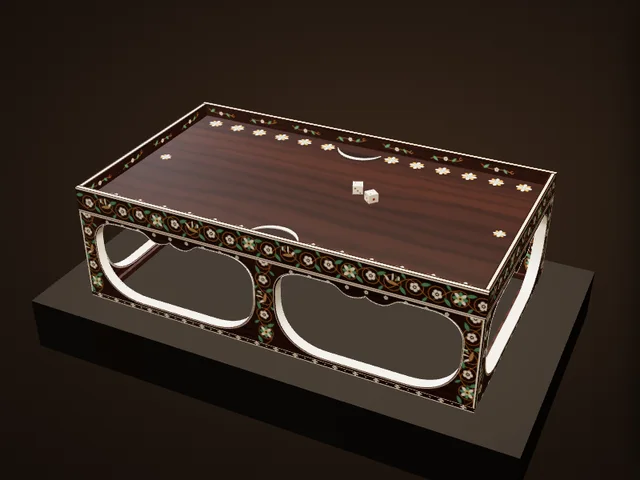
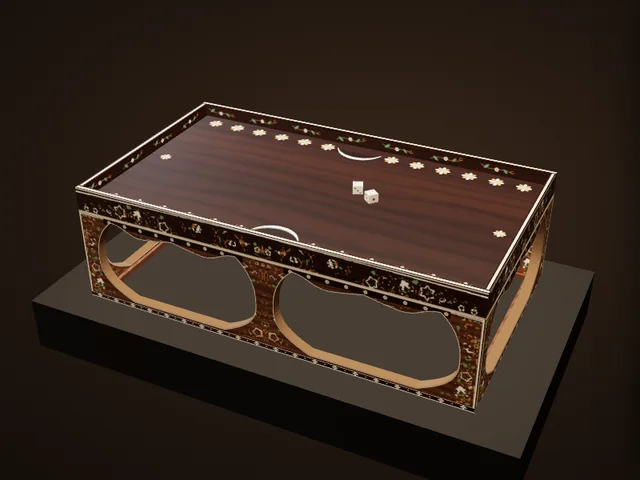
博物館：双六局の床脚の形・色と木画を正倉院の正面写真に合わせ直し
Claude-Session: https://claude.ai/code/session_01EiWRAZTxRF5M5nk5vdR2jJ

Changed region(s): [[0.125, 0.375, 0.875, 0.8438]]

diff --git a/atlas/museum/ex/sugoroku.js b/atlas/museum/ex/sugoroku.js
@@ -11,12 +11,16 @@
    included), base 12.5, rail .8. Two ivory dice (双六頭, kept apart as North 17) are set on the board for reference. */
 (function () {
   'use strict';
+  // the marquetry's layout, taken off the Shōsōin's frontal photographs of a long and a short side (CO0000011755 / 11757): red = the thin
+  // stems, green = the green-dyed leaves, blue = ivory. Rows: long band (2048×128), short band (1168×128), long stand (2048×512), short stand (1168×512).
+  const HERE = (document.currentScript && document.currentScript.src) || location.href; let INL = null;
   (window.AtlasEx = window.AtlasEx || {}).sugoroku = {
+    ready: () => new Promise(res => { const im = new Image(); im.onload = () => { INL = im; res(); }; im.onerror = () => res(); im.src = new URL('../../../images/atlas/ex/sugoroku-inlay.webp', HERE).href; setTimeout(res, 8000); }),
     build(TT, X, K) {
       const G = new TT.Group();
       const L = 54.3, W = 31.0, H = 16.7, RAIL = .8, BASE = 13.3, LIN = .9, EDGE = H - BASE, RIM = 1.9, RT = .7;   // (RIM: the wall round the field stands upright, about 1.9 high — the overall photograph)   // LIN: the strip of rosettes at the top of the base
       const shT = K.tex(1024, 1024, (g, w, h) => K.grain(g, w, h, { a: '#3e2016', b: '#1f0e09', seed: 37, sx: .5, sy: 9, warp: .45, pores: .004 }));
-      const baseT = K.tex(1024, 1024, (g, w, h) => K.grain(g, w, h, { a: '#44241a', b: '#25120c', seed: 41, sx: .5, sy: 12, warp: .3, pores: .004 }));
+      const baseT = K.tex(1024, 1024, (g, w, h) => K.grain(g, w, h, { a: '#70452a', b: '#4c2c1a', seed: 41, sx: .5, sy: 12, warp: .3, pores: .004 }));
       const shR = K.tex(256, 256, (g, w, h) => K.grain(g, w, h, { a: '#7a7a7a', b: '#4e4e4e', seed: 38, sy: 14 }), { data: true });
       const shitan = K.mat({ map: shT, roughnessMap: shR, color: '#ffffff', roughness: .5, clearcoat: .35, clearcoatRoughness: .35 });
       const inner = K.mat({ map: baseT, color: '#ffffff', roughness: .55, clearcoat: .2, clearcoatRoughness: .4 });
@@ -53,6 +57,9 @@
         }
         if (opt.edge) { g.fillStyle = C.iv; g.fillRect(0, 0, w, s * .18); g.fillRect(0, h - s * .18, w, s * .18); }
       };
+      let inlC = null; if (INL) { inlC = document.createElement('canvas'); inlC.width = INL.width; inlC.height = INL.height; const q = inlC.getContext('2d'); q.drawImage(INL, 0, 0); const im = q.getImageData(0, 0, inlC.width, inlC.height), d = im.data;
+        for (let i = 0; i < d.length; i += 4) { const st = d[i] / 255, gn = d[i + 1] / 255, iv = d[i + 2] / 255; let c = [201, 138, 60]; if (gn > st && gn > iv) c = [118, 146, 88]; else if (iv >= st) c = [236, 226, 204]; d[i] = c[0]; d[i + 1] = c[1]; d[i + 2] = c[2]; } q.putImageData(im, 0, 0); }
+      const inlay = (g, long, stand, x, y, w2, h2) => { const sw = long ? 2048 : 1168, sy = stand ? (long ? 256 : 768) : (long ? 0 : 128), sh = stand ? 512 : 128; g.save(); g.shadowColor = 'rgba(14,6,3,.8)'; g.shadowBlur = 1.5; g.drawImage(inlC, 0, sy, sw, sh, x, y, w2, h2); g.restore(); };
       const mk = (t, base) => K.mat({ map: t, color: '#ffffff', roughness: .48, clearcoat: .3, clearcoatRoughness: .35 });
       /* ---------- the face ---------- */
       const IL = L - RT * 2, IW = W - RT * 2, ROW = 2.0, P0 = 4.9, PS = 3.75;   // the row of points: its distance from the rim, the first point's distance from the centre, the pitch
@@ -76,7 +83,7 @@
       const add = (geo, m, x, y, z) => { const o = new TT.Mesh(geo, m); o.position.set(x, y, z); o.castShadow = o.receiveShadow = true; G.add(o); return o; };
 
       /* ---------- the board's edge (the slab with its rim, one band of marquetry outside) ---------- */
-      const edgeTex = (len, seed) => { const s = 2048 / len; return K.tex(2048, Math.round(EDGE * s), (g, w, h) => scroll(g, w, h, s, seed, shT, { edge: true, per: 5.2 })); };
+      const edgeTex = (len, seed) => { const s = 2048 / len; return K.tex(2048, Math.round(EDGE * s), (g, w, h) => { if (!inlC) return scroll(g, w, h, s, seed, shT, { edge: true, per: 5.2 }); g.drawImage(shT.image, 0, 0, w, h); inlay(g, len > 40, false, 0, 0, w, h); g.fillStyle = C.iv; g.fillRect(0, 0, w, s * .14); g.fillRect(0, h - s * .14, w, s * .14); }); };
       const eL = mk(edgeTex(L, 1)), eW = mk(edgeTex(W, 2));
       const SL = EDGE - RIM;   // the slab; the face is at BASE + SL
       // the half-moons: a raised ivory arc in the middle of each long side, its horns toward the rim, the hollow facing the players' edge
@@ -108,25 +115,25 @@
       const opening = (x0, x1) => { const p = new TT.Path(), top = OT, b0 = .35;
         // (the Shōsōin's detail photograph of a post: it stands like an hourglass — waisted a little above the middle, sweeping out in a
         // long curve to the foot and in a shorter one under the top rail; the opening's top is flat)
-        const fx = 6.6, fy = top * .56, tx = 4.0, ty = top * .32, bow = 0;
-        p.moveTo(x0 + fx, b0); p.lineTo(x1 - fx, b0); p.bezierCurveTo(x1 - fx * .35, b0, x1 + bow, fy * .45, x1 + bow, fy);
-        p.lineTo(x1 + bow, top - ty); p.bezierCurveTo(x1 + bow, top - ty * .4, x1 - tx * .4, top - .3, x1 - tx, top - .3);
-        { const cx = (x0 + x1) / 2, t0 = top - .3;   // the top's hanging bracket: two ogees meeting in a small notch
-          p.lineTo(cx + 4.6, t0); p.bezierCurveTo(cx + 3.4, t0, cx + 3.2, t0 - 1.15, cx + 1.9, t0 - 1.15); p.quadraticCurveTo(cx + .7, t0 - 1.15, cx, t0 - .55);
-          p.quadraticCurveTo(cx - .7, t0 - 1.15, cx - 1.9, t0 - 1.15); p.bezierCurveTo(cx - 3.2, t0 - 1.15, cx - 3.4, t0, cx - 4.6, t0); }
-        p.lineTo(x0 + tx, top - .3); p.bezierCurveTo(x0 + tx * .4, top - .3, x0 - bow, top - ty * .4, x0 - bow, top - ty);
-        p.lineTo(x0 - bow, fy); p.bezierCurveTo(x0 - bow, fy * .45, x0 + fx * .35, b0, x0 + fx, b0); return p; };
+        const fx = 4.8, fy = top * .46, tx = 2.6, ty = top * .52, bow = 0;   // (measured on the frontal photographs: legs 2 wide at the waist, 6.5 at the foot, 3.7 under the rail)
+        p.moveTo(x0 + fx, b0); p.lineTo(x1 - fx, b0); p.bezierCurveTo(x1 - fx * .45, b0 + fy * .22, x1 + bow, fy * .5, x1 + bow, fy);
+        p.lineTo(x1 + bow, top - ty); p.bezierCurveTo(x1 + bow, top - ty * .5, x1 - tx * .45, top - .3 - ty * .2, x1 - tx, top - .3);
+        { const cx = (x0 + x1) / 2, t0 = top - .3, hw = (x1 - x0) / 2, a = hw * .78, b = hw * .2, dp = 1.25;   // the rail's hanging bracket: a long lobe either side, a small peak between them
+          p.lineTo(cx + a, t0); p.bezierCurveTo(cx + a * .8, t0, cx + a * .72, t0 - dp, cx + a * .52, t0 - dp); p.bezierCurveTo(cx + b * 1.6, t0 - dp, cx + b, t0 - dp * .75, cx, t0 - dp * .35);
+          p.bezierCurveTo(cx - b, t0 - dp * .75, cx - b * 1.6, t0 - dp, cx - a * .52, t0 - dp); p.bezierCurveTo(cx - a * .72, t0 - dp, cx - a * .8, t0, cx - a, t0); }
+        p.lineTo(x0 + tx, top - .3); p.bezierCurveTo(x0 + tx * .45, top - .3 - ty * .2, x0 - bow, top - ty * .5, x0 - bow, top - ty);
+        p.lineTo(x0 - bow, fy); p.bezierCurveTo(x0 - bow, fy * .5, x0 + fx * .45, b0 + fy * .22, x0 + fx, b0); return p; };
       const skirtFor = (len, n) => { const S = new TT.Shape(); S.moveTo(-len / 2, 0); S.lineTo(len / 2, 0); S.lineTo(len / 2, SK); S.lineTo(-len / 2, SK); S.closePath();
-        const LEG = 2.0, POST = 2.7, ow = (len - 2 * LEG - (n - 1) * POST) / n;
+        const LEG = 2.3, POST = 2.5, ow = (len - 2 * LEG - (n - 1) * POST) / n;
         for (let i = 0; i < n; i++) { const x0 = -len / 2 + LEG + i * (ow + POST); S.holes.push(opening(x0, x0 + ow)); }
         return S; };
       const baseTex = (len, n, seed) => { const S = skirtFor(len, n), s = 2048 / len; return K.tex(2048, Math.round(SK * s), (g, w, h) => {
         g.drawImage(baseT.image, 0, 0, w, h);
         // vertical scrolls up the corner legs and the post (where the wood stands between the openings)
-        const LEG = 2.0, POST = 2.7, nO = S.holes.length, ow = (len - 2 * LEG - (nO - 1) * POST) / nO, cols = [LEG * .55, len - LEG * .55];
+        const LEG = 2.3, POST = 2.5, nO = S.holes.length, ow = (len - 2 * LEG - (nO - 1) * POST) / nO, cols = [LEG * .55, len - LEG * .55];
         for (let i = 1; i < nO; i++) cols.push(LEG + i * ow + (i - .5) * POST);
         const vs = K.tex(512, Math.round(512 * 3.4 / SK), (g2, w2, h2) => scroll(g2, w2, h2, w2 / SK, seed, baseT, { per: 5.2 }));
-        cols.forEach(cxm => { g.save(); g.translate(cxm * s, h); g.rotate(-Math.PI / 2); g.globalAlpha = 1; g.drawImage(vs.image, 0, -s * 1.7, h, s * 3.4); g.restore(); });
+        if (inlC) inlay(g, len > 40, true, 0, 0, w, h); else cols.forEach(cxm => { g.save(); g.translate(cxm * s, h); g.rotate(-Math.PI / 2); g.globalAlpha = 1; g.drawImage(vs.image, 0, -s * 1.7, h, s * 3.4); g.restore(); });
         // across the top, between the openings and the edge, a running scroll
         // the strip of rosettes along the top
         g.fillStyle = C.iv; g.fillRect(0, 0, w, s * .14);
@@ -138,14 +145,11 @@
       }); };
       const baseMat = (len, n, seed) => { const t = baseTex(len, n, seed); t.repeat.set(1 / len, 1 / SK); t.offset.set(.5, 0); return mk(t); };
       const geoFor = (len, n) => new TT.ExtrudeGeometry(skirtFor(len, n), { depth: 1.3, bevelEnabled: true, bevelThickness: .06, bevelSize: .06, bevelSegments: 1, curveSegments: 14 });
-      const ivory2 = ivory.clone(); ivory2.side = TT.DoubleSide;
+      const ivory2 = K.mat({ color: '#6a4c2e', roughness: .9 });   // (the openings are lined with a pale wood strip — tan, not white: the frontal photographs)
       const gL = geoFor(L, 2), gW = geoFor(W, 1); gL.userData = { len: L, n: 2 }; gW.userData = { len: W, n: 1 }; const mL = baseMat(L, 2, 5), mW = baseMat(W, 1, 6);
       [[gL, mL, 0, W / 2 - 1.3, 0], [gL, mL, 0, -W / 2 + 1.3, Math.PI], [gW, mW, L / 2 - 1.3, 0, Math.PI / 2], [gW, mW, -L / 2 + 1.3, 0, -Math.PI / 2]].forEach(([geo, m, x, z, ry]) => {
-        // the openings' cut faces are lined with ivory (a ribbon just inside each opening)
-        const S0 = skirtFor(geo.userData.len, geo.userData.n); S0.holes.forEach(hp => { const pts = hp.getPoints(16), cxm = pts.reduce((a, p) => a + p.x, 0) / pts.length, cym = pts.reduce((a, p) => a + p.y, 0) / pts.length, pos = [], idx = [];
-          pts.forEach((p, i) => { const X = cxm + (p.x - cxm) * .985, Y = cym + (p.y - cym) * .985; pos.push(X, Y, -.07, X, Y, 1.37); if (i) { const k = i * 2; idx.push(k - 2, k - 1, k, k - 1, k + 1, k); } });
-          const rb = new TT.BufferGeometry(); rb.setAttribute('position', new TT.Float32BufferAttribute(pos, 3)); rb.setIndex(idx); rb.computeVertexNormals(); const r = new TT.Mesh(rb, ivory2); r.rotation.y = ry; r.position.set(x, RAIL, z); G.add(r); });
-        const o = new TT.Mesh(geo, [m, inner]); o.rotation.y = ry; o.position.set(x, RAIL, z); o.scale.x = .9975;   /* (each panel a hair short: its end face lay in the same plane as the next panel's front and the two fought at the corner legs, a flicker at a distance) */ o.castShadow = o.receiveShadow = true; G.add(o); });
+        // (the openings' cut faces are a pale wood strip: the extrusion's own side material — a separate ribbon lay in the same plane and flickered)
+        const o = new TT.Mesh(geo, [m, ivory2]); o.rotation.y = ry; o.position.set(x, RAIL, z); o.scale.x = .9975;   /* (each panel a hair short: its end face lay in the same plane as the next panel's front and the two fought at the corner legs, a flicker at a distance) */ o.castShadow = o.receiveShadow = true; G.add(o); });
       add(new TT.BoxGeometry(L - 2.6, .5, W - 2.6), inner, 0, BASE - .25, 0);
       // the low rail: dark, with ivory edges and a row of ivory dots and little lozenges
       // the floor frame's outer face (the overall photograph): an ivory line top and bottom, and between them four-petalled lozenge flowers

diff --git a/atlas/museum/gallery-ja.js b/atlas/museum/gallery-ja.js
@@ -49,7 +49,7 @@
         ['花の目印', '三日月の左右に木画の花が6つずつ、長い辺に12ずつ。駒を並べる位置を示しています。'],
         ['短い辺の花', '短い辺の中央にも花が1つずつあります。'],
         ['盤の側面の花鳥', '盤の側面には、竹の細い線で描いた唐草に象牙の花と緑に染めた鹿角の葉、そして縞模様の翼を広げて飛ぶ鳥の木画。'],
-        ['床脚', '床脚は、長い辺に大きな刳り形が2つ。くびれた中央の柱と細い隅の脚にも唐草の木画がほどこされています。'],
+        ['床脚', '少し明るい色の床脚は、長い辺に大きな刳り形が2つ。くびれた中央の柱と細い隅の脚にも唐草の木画がほどこされています。'],
         ['さいころ（双六頭）', '正倉院には象牙のさいころ「双六頭」も別に伝わります（北倉17、一辺1.3〜1.4cm）。向かい合う面の目を足すと7になるのは今と同じ。ここでは参考に2つ置いています。']],
       model: "寸法は正倉院の記録どおり。形と文様は公開写真に合わせ、細かな木画は簡略にしています。",
       src: [['正倉院「木画紫檀双六局」', 'https://shosoin.kunaicho.go.jp/treasures/?id=0000010086&index=10'], ['正倉院展「悠久の輝き（前編）」（盤面の三日月と花）', 'https://shosoin-ten.jp/articles/detail/000453.html'], ['正倉院展「木画紫檀双六局」', 'https://shosoin-ten.jp/info/treasures/000414/'], ['奈良新聞「時を超えたたからもの(2)」', 'https://www.nara-np.co.jp/news/20251103211942.html']] },

diff --git a/atlas/museum.js b/atlas/museum.js
@@ -32,7 +32,7 @@
   const ROOMS = [
     { id: 'map', ready: () => !!window.AtlasMap, render: (el, c) => AtlasMap.render(el, c) },
     { id: 'tree', src: ['museum/tree.js?v=3'], ready: () => !!window.AtlasTree, render: (el, c) => AtlasTree.render(el, c) },
-    { id: 'gallery', src: ['museum/gallery.js?v=67'], ready: () => !!window.AtlasGallery, render: (el, c) => AtlasGallery.render(el, c) },
+    { id: 'gallery', src: ['museum/gallery.js?v=68'], ready: () => !!window.AtlasGallery, render: (el, c) => AtlasGallery.render(el, c) },
   ];
   const KEY = 'atlas-museum-room';
   const esc = s => String(s == null ? '' : s).replace(/[&<>"]/g, c => ({ '&': '&amp;', '<': '&lt;', '>': '&gt;', '"': '&quot;' }[c]));

diff --git a/atlas/index.html b/atlas/index.html
@@ -2559,7 +2559,7 @@ window.AtlasRgdTimer = function (btn, ms, alive) {
 <link rel="stylesheet" href="worldmap.css?v=19">
 <link rel="stylesheet" href="museum.css?v=4">
 <script src="worldmap.js?v=40"></script>
-<script src="museum.js?v=68"></script>
+<script src="museum.js?v=69"></script>
 <script src="npc/npc.js?v=46"></script>
 <script src="avtalk.js?v=4"></script>
 <script>/* Page states as classes on <html> (2026-11-21) — html.cov-on: the 3D view / Historia / a sheet / a level sheet is open;

diff --git a/atlas/museum/gallery.js b/atlas/museum/gallery.js
@@ -10,7 +10,7 @@
    (a turn, a zoom, the slow turntable) and never while the window is in the background. */
 (function () {
   'use strict';
-  const V = 67;
+  const V = 68;
   /* ---------- the pieces: id, the game it belongs to, its scale (cm per model unit), the camera's start, the details ----------
      lock: { game, ach } → open after that many achievements of the game. src: the files the piece needs (besides ex/<id>.js) */
   const EX = [

diff --git a/claude/museum-spec.md b/claude/museum-spec.md
@@ -86,6 +86,7 @@
   - **回転体のテクスチャ**：一周する絵は左右の端がつながるように作る（継ぎ目が線に見える）。頂点（絵の上端）では模様を弱める（放射状のしわになる）。丸い手作りの物を少ない分割の多角形で作らない（カクカクに見える）。
   - オスマン盤の象牙の細線：写真から抜き出さず、区画ごとに尖りの間隔を測って（約138px＝3.8cm）、尖りの間の帯の両脇に真っすぐ引く。蝶番の列は菱形の貝だけ残す。
   - 木画紫檀棊局の側面の図柄：手描きの影絵をやめ、正倉院の細部写真428〜436から16区画の図の輪郭と染め色の位置を抜き出した配置図（images/atlas/ex/shosoin-figures.webp、4行＝A・C・B・D面、各4区画）を使う。区画の位置は写真上の座標を目で読んで指定（tools ではなく /tmp の作業スクリプト。再生成時は museum-spec のこの項を参照）。線彫りは未再現。
+  - 木画紫檀双六局（2026-11-22、正倉院の正面写真 CO0000011755＝長辺・11757＝短辺に合わせ直し）：床脚は胴より明るい茶色（先に「濃い紫檀」に変えたのは誤り）。開口部は脚が中ほどで最も細く（約2.3cm）、足元へ大きく・上へ小さく広がる砂時計形、上辺の桟から2つの長い垂れと中央の小さな山。木画は正面写真から抜き出した配置図（images/atlas/ex/sugoroku-inlay.webp：茎・緑の葉・象牙）を帯と床脚に貼る（長辺は左半分を鏡映）。開口部の切り口は押し出しの側面材そのものを淡い木色に（別の帯を重ねると同一平面でちらつく）。
   - **スマホのテクスチャ上限**：スマホ（幅820px未満）では、読み込み時に長辺1536pxを超えるテクスチャを1536pxに縮める（gallery.js の small()。2048²は1枚22MB）。
   - **同じ平面に面を重ねない／透かしはアルファ・トゥ・カバレッジ**：隣り合う部品の面が同じ平面にあると遠目でちらつく（双六局の隅の脚。片方を少し短くする）。alphaTest の透かし（ダイスタワー）は `alphaToCoverage: true` を付けて縁を滑らかにする。
   - **重さの基準**：三角形は展示1点 8万以下（`atlas/tools/exrender.html` が `window.stats` に三角形数・メッシュ数・テクスチャの枚数とメモリを出す）。
